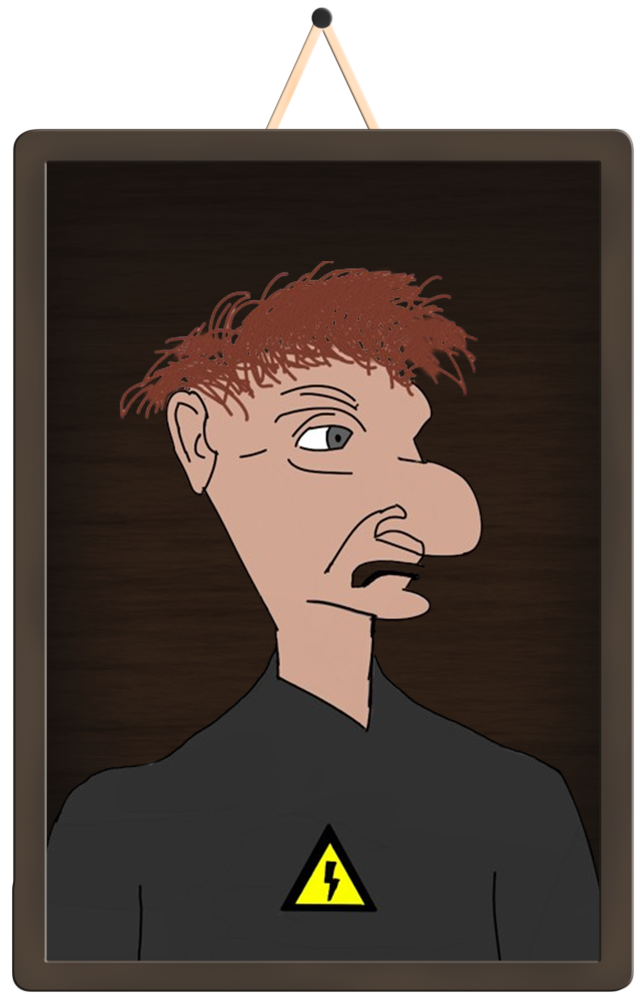
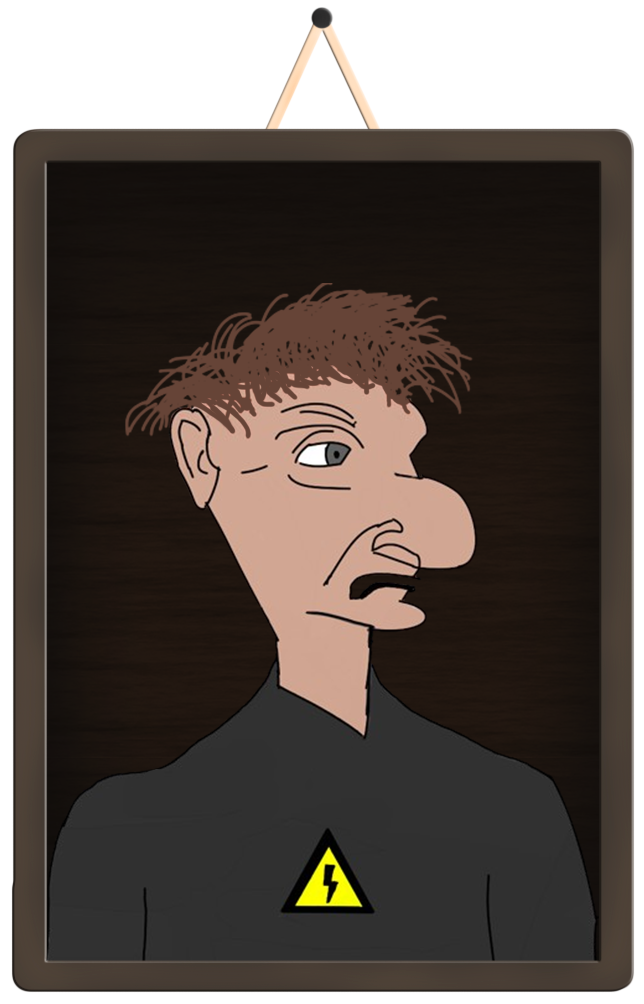
Replace authors portraits with new ones

diff --git a/Components/Pages/Authors/Authors.razor.css b/Components/Pages/Authors/Authors.razor.css
@@ -6,12 +6,12 @@ h1 {
 
 div.authors_page {
     width: 100vw;
-    height: 100vh;
+    min-height: 100vh;
 
     color: white;
 
-    background: url("authors/background.png");
-    background-size: cover;
+    background: url("authors/background.png") repeat;
+    background-size: 100%;
 }
 
 div.authors_page h1:first-child {
